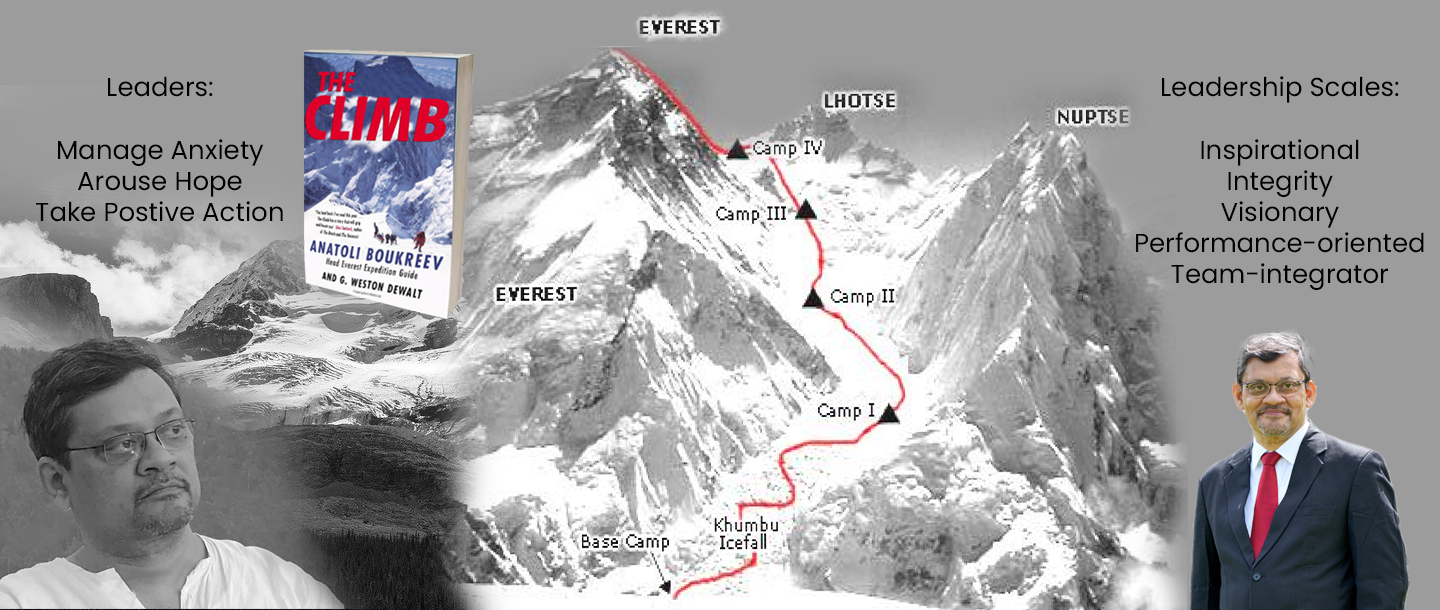
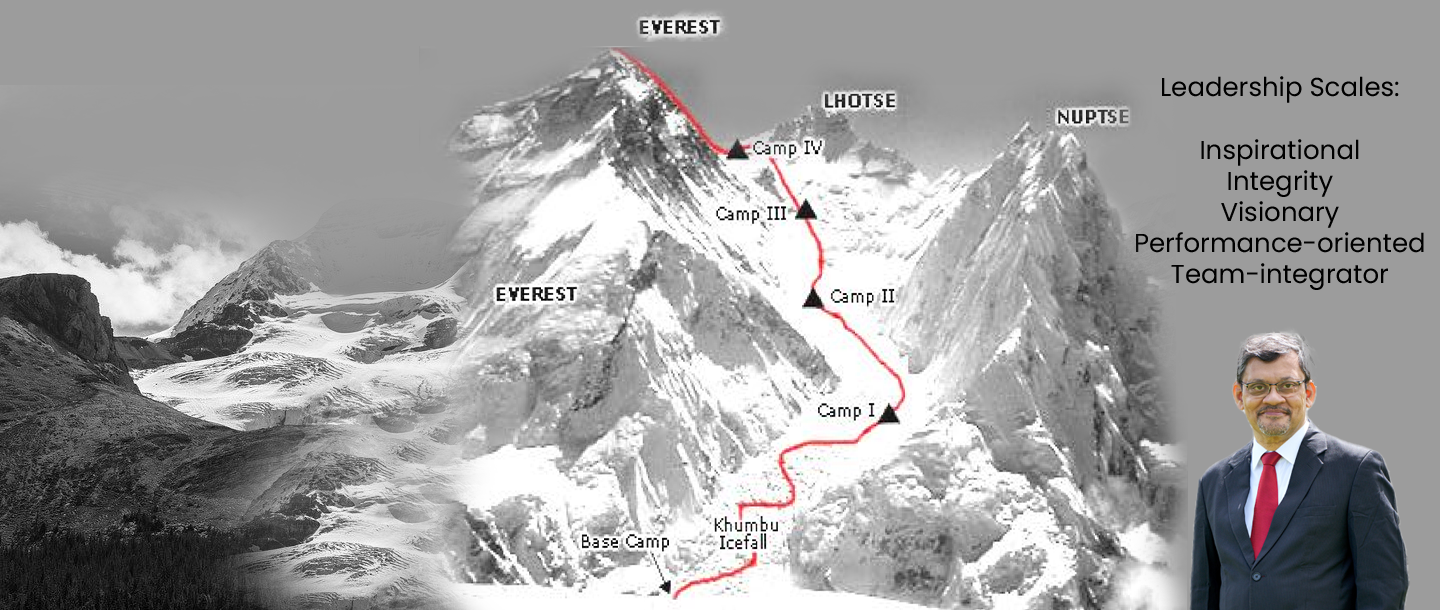
update leadership page

Changed region(s): [[0.0, 0.4361, 0.3438, 1.0], [0.0312, 0.0623, 0.3438, 0.5295], [0.0625, 0.1246, 0.1562, 0.1557]]

diff --git a/leadership.html b/leadership.html
@@ -101,7 +101,7 @@ of 25+ years in India & UK across Deutsche Bank and PwC, Hult Ashridge UK & IIMs
 			Anamitra underwent the World Class Mentoring (Elite Sports & Business) Programme from Ashtridge UK.
 			
 			
-
+<p><img src="assets/img/leadership-img1.jpg" class="img-fluid leader-img"></p> 
 
 			
       </p>
